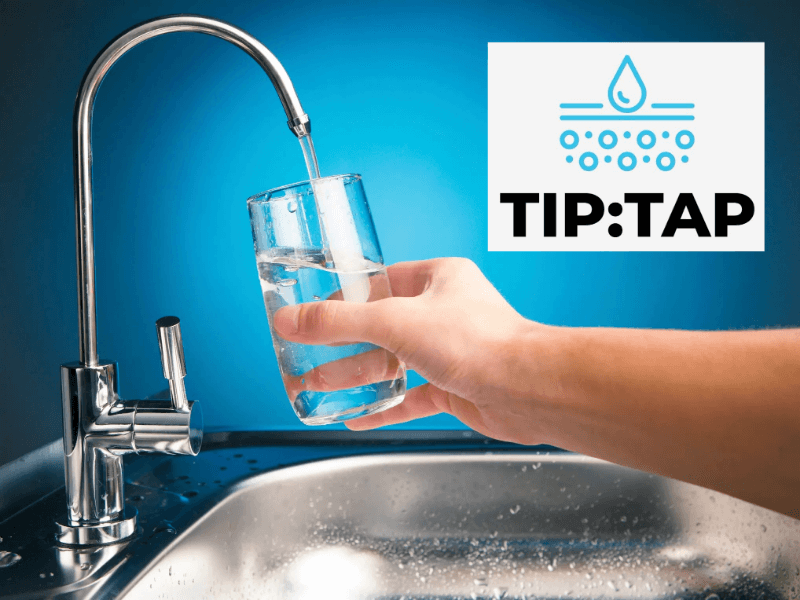
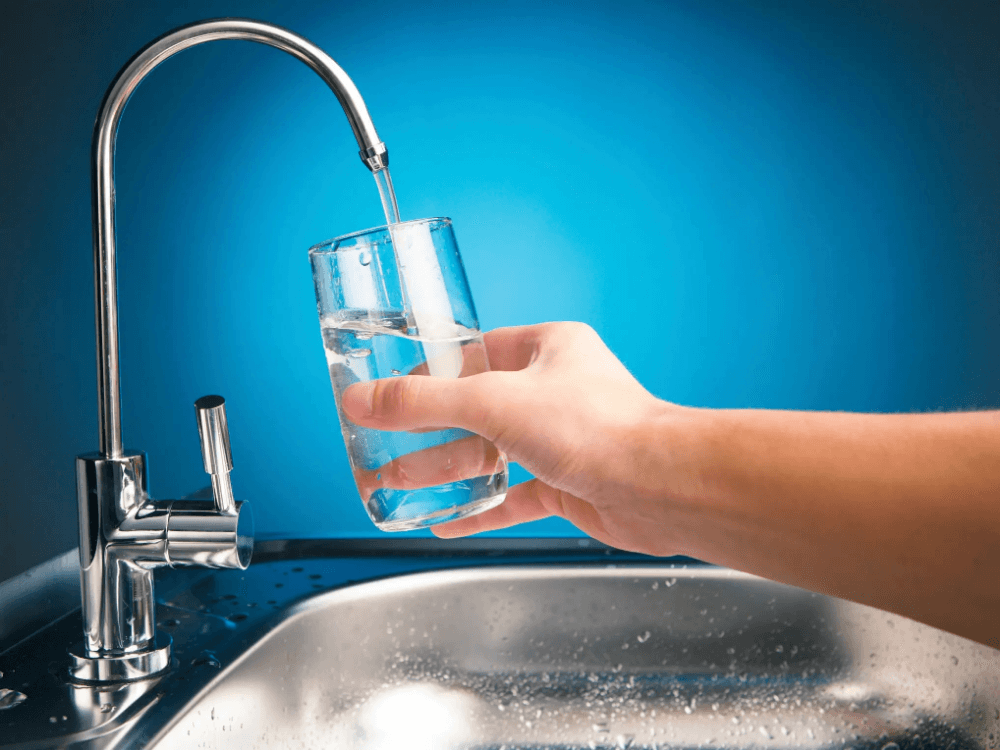
mx-auto

Changed region(s): [[0.5938, 0.06, 0.9688, 0.42]]

diff --git a/assets/css/output-style.css b/assets/css/output-style.css
@@ -550,9 +550,6 @@ a {
 .h-full {
   height: 100%;
 }
-.h-lvh {
-  height: 100lvh;
-}
 .min-h-screen {
   min-height: 100vh;
 }
@@ -606,11 +603,6 @@ a {
   margin-right: calc(1rem * var(--tw-space-x-reverse));
   margin-left: calc(1rem * calc(1 - var(--tw-space-x-reverse)));
 }
-.space-y-5p > :not([hidden]) ~ :not([hidden]) {
-  --tw-space-y-reverse: 0;
-  margin-top: calc(5% * calc(1 - var(--tw-space-y-reverse)));
-  margin-bottom: calc(5% * var(--tw-space-y-reverse));
-}
 .rounded-lg {
   border-radius: 0.5rem;
 }
@@ -646,10 +638,6 @@ a {
 }
 .p-8 {
   padding: 2rem;
-}
-.px-10p {
-  padding-left: 10%;
-  padding-right: 10%;
 }
 .px-5 {
   padding-left: 1.25rem;
@@ -694,8 +682,8 @@ a {
   font-size: 1.5rem;
   line-height: 1.2;
 }
-.text-4xl {
-  font-size: 2.25rem;
+.text-3xl {
+  font-size: 1.875rem;
   line-height: 1;
 }
 .text-sm {
@@ -710,18 +698,11 @@ a {
   font-size: 0.75rem;
   line-height: 1.2;
 }
-.text-3xl {
-  font-size: 1.875rem;
-  line-height: 1;
-}
 .font-bold {
   font-weight: 700;
 }
 .font-semibold {
   font-weight: 600;
-}
-.uppercase {
-  text-transform: uppercase;
 }
 .tracking-wide {
   letter-spacing: 0.025em;
@@ -1004,9 +985,6 @@ iframe {
   .sm\:flex-row {
     flex-direction: row;
   }
-  .sm\:items-start {
-    align-items: flex-start;
-  }
   .sm\:items-center {
     align-items: center;
   }
@@ -1083,17 +1061,14 @@ iframe {
   .md\:grid-cols-3 {
     grid-template-columns: repeat(3, minmax(0, 1fr));
   }
-  .md\:py-5p {
-    padding-top: 5%;
-    padding-bottom: 5%;
-  }
   .md\:pb-0 {
     padding-bottom: 0px;
   }
 }
 @media (min-width: 1024px) {
-  .lg\:pt-0 {
-    padding-top: 0px;
+  .lg\:mx-auto {
+    margin-left: auto;
+    margin-right: auto;
   }
   .lg\:text-4xl {
     font-size: 2.25rem;

diff --git a/index.html b/index.html
@@ -20,7 +20,7 @@ header:
          technologies from Europe.
       button-url: https://wa.me/628113858851
       button-cta: Contact Us
-      image: /images/banner-optimized.png
+      image: /images/tap-water-aeg.png
       image-alt:
 horizontal-banner:
    -
@@ -159,7 +159,7 @@ google-maps:
   <!-- Main Content -->
   <div class="relative flex flex-col items-center justify-center min-h-screen text-center text-white sm:grid sm:grid-cols-2 sm:bg-opacity-0 sm:text-black">
     <!-- Text Column Default on Smaller Screens -->
-    <div class="relative z-20 p-5 max-w-lg text-center sm:block sm:items-start sm:justify-center sm:p-5 sm:bg-transparent sm:col-span-1">
+    <div class="relative z-20 p-5 max-w-lg text-center sm:block lg:mx-auto sm:justify-center sm:p-5 sm:bg-transparent sm:col-span-1">
       <!-- Background Box for Smaller Screens -->
       <div class="nav-bg rounded-lg p-5 sm:bg-transparent">
         <p class="small-font pb-2p">{{item.pretitle}}</p>
